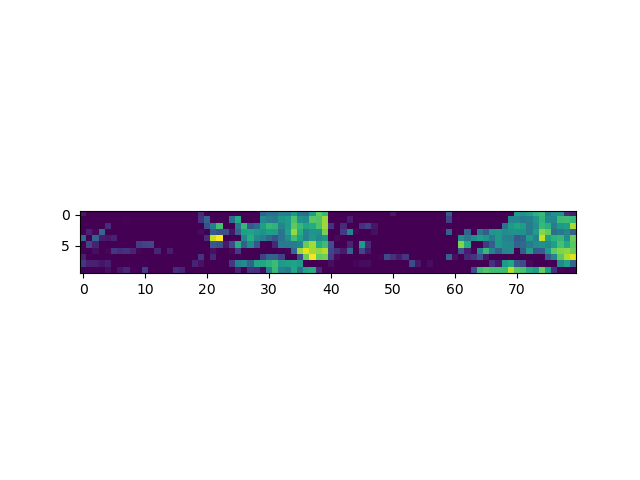
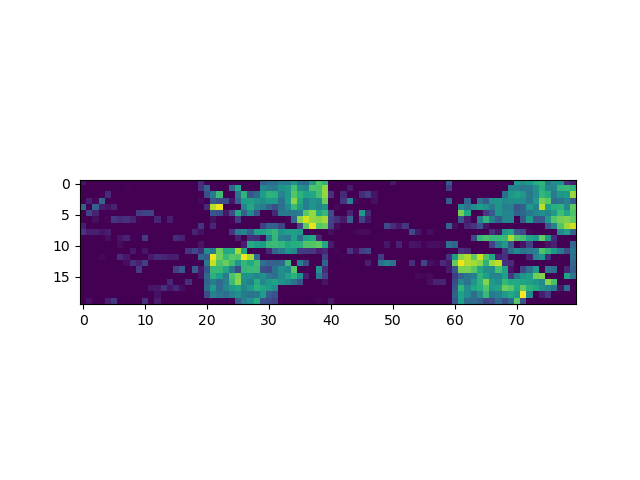
visualize activations

Changed region(s): [[0.0625, 0.375, 0.9062, 0.6875]]

diff --git a/visualize_gcnn.py b/visualize_gcnn.py
@@ -39,12 +39,15 @@ a1_r = np.hstack([a1_r[i,0,0] for i in range(a1_r.shape[0])])
 plt.imshow(np.vstack([a1, a1_r]))
 plt.savefig("activations_layer_1.png")
 
-"""
 a2 = np.hstack([a2[i,0,0] for i in range(a2.shape[0])])
-plt.imshow(a2)
+a2_r = np.hstack([a2_r[i,0,0] for i in range(a2_r.shape[0])])
+plt.imshow(np.vstack([a2, a2_r]))
 plt.savefig("activations_layer_2.png")
 
 a3 = np.hstack([a3[i,0,0] for i in range(a3.shape[0])])
-plt.imshow(a3)
+a3_r = np.hstack([a3_r[i,0,0] for i in range(a3_r.shape[0])])
+plt.imshow(np.vstack([a3, a3_r]))
 plt.savefig("activations_layer_3.png")
-"""
+
+plt.imshow(np.vstack([a4[0,0], a4_r[0,0]]))
+plt.savefig("activations_layer_4_invariant.png")
